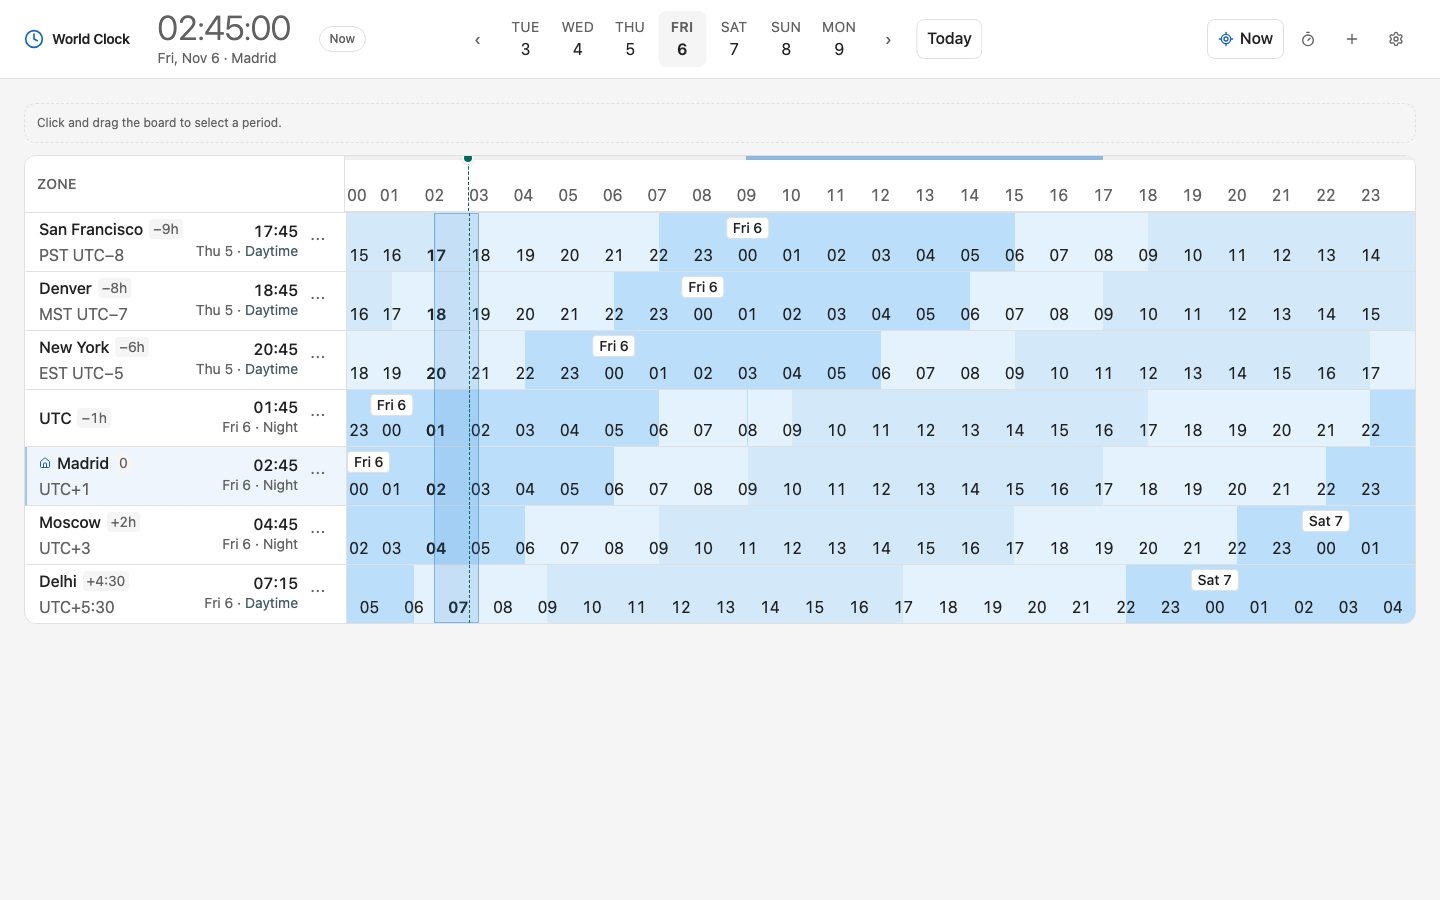
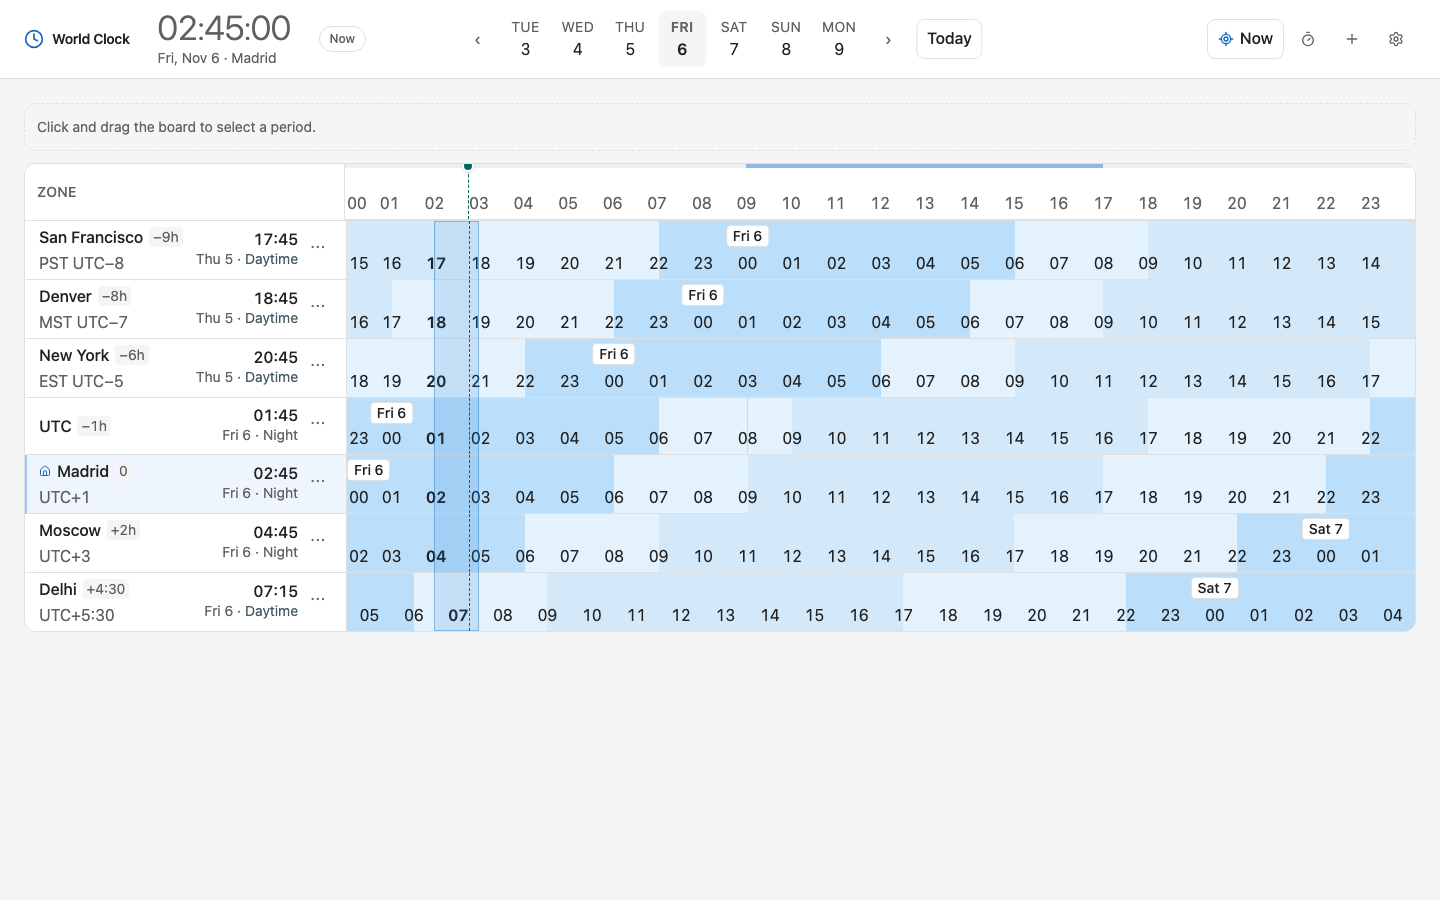
fix: keep the board fixed when a range appears
Reserve one 48px slot for the hint and range bar, compact the mobile range summary, and hide the secondary mobile date/status line so row heights stay stable before and after selection.

diff --git a/src/lib/components/RangeBar.svelte b/src/lib/components/RangeBar.svelte
@@ -34,18 +34,17 @@
 
 <div
   data-testid="range-bar"
-  class="border-border bg-surface-raised mb-3 flex min-h-10 flex-wrap items-center justify-between gap-2 rounded-xl border px-3 py-2 text-xs"
+  class="border-border bg-surface-raised flex h-full min-w-0 items-center justify-between gap-2 overflow-hidden rounded-xl border px-3"
 >
-  <div class="flex flex-wrap items-center gap-x-3 gap-y-1">
-    <span class="text-text font-medium">Selected</span>
-    <span class="text-muted tabular-nums">
+  <div class="flex min-w-0 items-baseline gap-2 whitespace-nowrap">
+    <span class="text-text text-base font-medium tabular-nums">
       {local.start}–{local.end}
-      {homeLabel}
     </span>
-    <span class="bg-surface text-accent-text rounded-full px-2 py-0.5 font-medium tabular-nums">
-      {formatDuration(range.durationMs)}
+    <span class="text-muted shrink-0 text-sm tabular-nums">
+      ({formatDuration(range.durationMs)})
     </span>
-    <span class="text-muted">
+    <span class="text-muted hidden text-sm sm:inline">{homeLabel}</span>
+    <span class="text-muted hidden truncate text-sm sm:inline">
       {summary.in} of {zones.length} zones in working hours
       {#if summary.partial > 0}
         · {summary.partial} partly
@@ -56,13 +55,13 @@
     </span>
   </div>
 
-  <div class="flex items-center gap-1">
+  <div class="flex shrink-0 items-center gap-1">
     <button
       type="button"
       onclick={() => {
         onDetails();
       }}
-      class="border-border text-text hover:bg-surface h-8 rounded-lg border px-2 text-xs font-medium"
+      class="border-border text-text hover:bg-surface h-9 rounded-lg border px-2.5 text-sm font-medium"
     >
       Details
     </button>
@@ -71,7 +70,7 @@
       onclick={() => {
         onClear();
       }}
-      class="text-muted hover:bg-surface hover:text-text h-8 rounded-lg px-2 text-xs font-medium"
+      class="text-muted hover:bg-surface hover:text-text h-9 rounded-lg px-2 text-sm font-medium"
     >
       Clear
     </button>

diff --git a/e2e/world-clock.spec.ts b/e2e/world-clock.spec.ts
@@ -536,3 +536,27 @@ test('uses the 16px base size for menus and settings controls', async ({ page })
     .first();
   expect(await zone.evaluate((element) => getComputedStyle(element).fontSize)).toBe('16px');
 });
+
+test('keeps the board in place when a range appears', async ({ page }) => {
+  const board = page.getByTestId('board-scroll');
+  const before = await board.boundingBox();
+  const ruler = page.getByTestId('ruler-surface');
+  const box = await ruler.boundingBox();
+  if (!before || !box) throw new Error('layout missing');
+  await page.mouse.move(box.x + box.width * 0.25, box.y + box.height / 2);
+  await page.mouse.down();
+  await page.mouse.move(box.x + box.width * 0.55, box.y + box.height / 2, { steps: 8 });
+  await page.mouse.up();
+  await expect(page.getByTestId('range-bar')).toBeVisible();
+  const after = await board.boundingBox();
+  if (!after) throw new Error('board missing');
+  expect(after.y).toBe(before.y);
+
+  await page.setViewportSize({ width: 390, height: 844 });
+  const row = page.getByTestId('row-America/New_York');
+  const rowBefore = await row.boundingBox();
+  await page.getByRole('button', { name: /clear/i }).click();
+  const normalRow = await row.boundingBox();
+  if (!rowBefore || !normalRow) throw new Error('row missing');
+  expect(rowBefore.height).toBe(normalRow.height);
+});

diff --git a/src/lib/components/ZoneRow.svelte b/src/lib/components/ZoneRow.svelte
@@ -160,11 +160,13 @@
         class="text-right max-sm:flex max-sm:flex-wrap max-sm:items-baseline max-sm:gap-x-1 max-sm:text-left"
       >
         {#if rangeLabel !== null}
-          <div class="text-text text-base leading-none font-medium tabular-nums max-sm:basis-full">
+          <div
+            class="text-text text-base leading-none font-medium tabular-nums max-sm:basis-full max-sm:text-sm max-sm:whitespace-nowrap"
+          >
             {rangeLabel}
           </div>
           <div
-            class={`mt-0.5 text-xs max-sm:mt-0 sm:text-sm ${rangeStatus === 'in' ? 'text-accent-text' : 'text-muted'}`}
+            class={`mt-0.5 text-xs max-sm:sr-only sm:text-sm ${rangeStatus === 'in' ? 'text-accent-text' : 'text-muted'}`}
           >
             {rangeStatusLabel}
           </div>
@@ -172,7 +174,7 @@
           <div class="text-text text-base leading-none font-medium tabular-nums max-sm:basis-full">
             {model.focusedTime}
           </div>
-          <div class="mt-0.5 flex items-baseline gap-1 text-xs max-sm:mt-0 sm:text-sm">
+          <div class="mt-0.5 flex items-baseline gap-1 text-xs max-sm:sr-only sm:text-sm">
             <span class="text-muted">{model.focusedDate}</span>
             <span class="text-muted">·</span>
             <span class={statusClass}>{statusLabel}</span>

diff --git a/src/App.svelte b/src/App.svelte
@@ -225,23 +225,25 @@
   {/if}
 
   <main id="board" class="p-4 sm:p-6">
-    {#if boardStore.range}
-      <RangeBar
-        range={boardStore.range}
-        zones={settingsStore.value.zones}
-        settings={settingsStore.value}
-        onClear={clearBoardRange}
-        onDetails={() => {
-          durationOpen = true;
-        }}
-      />
-    {:else}
-      <div
-        class="border-border text-muted mb-3 flex min-h-10 items-center rounded-xl border border-dashed px-3 text-xs"
-      >
-        Click and drag the board to select a period.
-      </div>
-    {/if}
+    <div class="mb-3 h-12">
+      {#if boardStore.range}
+        <RangeBar
+          range={boardStore.range}
+          zones={settingsStore.value.zones}
+          settings={settingsStore.value}
+          onClear={clearBoardRange}
+          onDetails={() => {
+            durationOpen = true;
+          }}
+        />
+      {:else}
+        <div
+          class="border-border text-muted flex h-full items-center rounded-xl border border-dashed px-3 text-sm"
+        >
+          Click and drag the board to select a period.
+        </div>
+      {/if}
+    </div>
 
     <Board
       axis={boardStore.axis}

diff --git a/src/lib/components/RangeBar.test.ts b/src/lib/components/RangeBar.test.ts
@@ -19,7 +19,7 @@ it('shows duration and availability count', () => {
       onDetails: vi.fn(),
     },
   });
-  expect(screen.getByText('6h')).toBeInTheDocument();
+  expect(screen.getByText(/6h/)).toBeInTheDocument();
   expect(screen.getByText(/zones in working hours/)).toBeInTheDocument();
 });
 

diff --git a/docs/architecture.md b/docs/architecture.md
@@ -83,6 +83,8 @@ Import replaces the current document only after confirmation. Export includes
   restore, and Escape. Set Time traps focus manually.
 - Zone menus open in a manual popover, positioned from the trigger rectangle
   and flipped or clamped to stay inside the viewport.
+- The hint and selected-range bar share a fixed 48px slot above the board, so
+  selecting a range does not reflow the board. Mobile row metrics stay stable.
 - Focus/now lines and range fills render in the ruler and every row. A hover
   overlay follows the cursor without changing selection.
 - On narrow screens the row header wraps the time block below the zone name;
